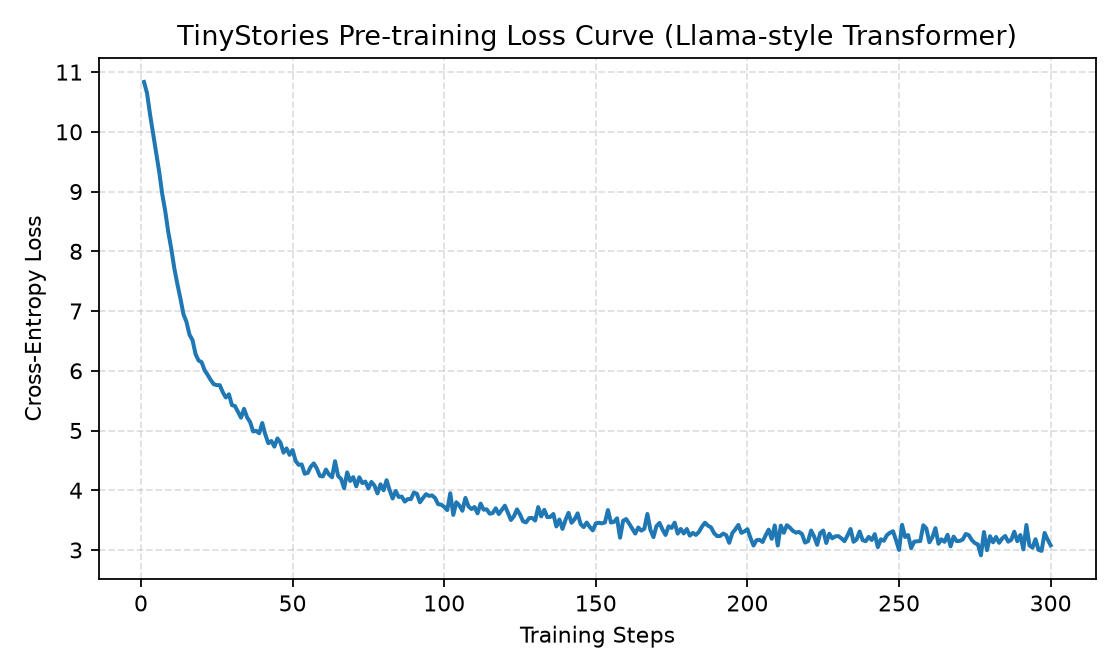
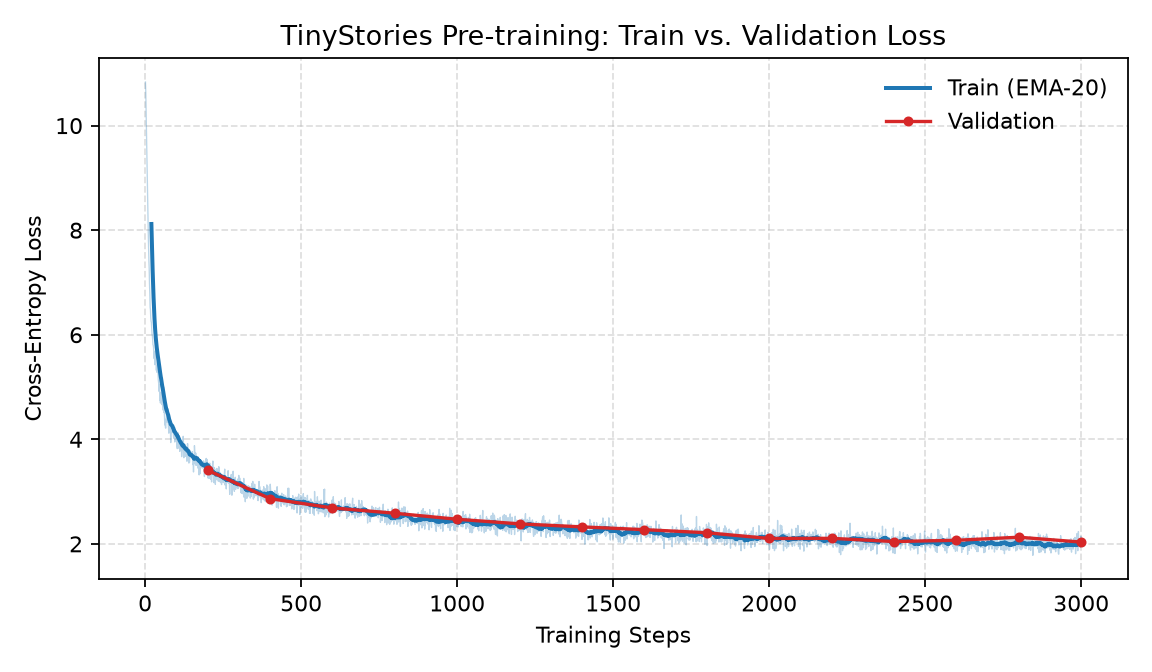
feat(training): 50MB TinyStories 子集 + 验证集 + 3000 步训练
- 新增 fetch_data.py：Gitee 镜像流式拉取 64MB，按故事边界切 50MB train / 13MB valid
- train.py：固定 seed 1337，每 200 步算验证 loss，3000 步余弦退火，双曲线图
- 结果：train 10.83 -> 1.97，val 3.41 -> 2.03，585s / 12.29M tokens (21k tok/s)
- 重跑 KV Cache 基准：L=1024 时 96.3 -> 223.4 tok/s (2.32x)

diff --git a/assignments/assignment1-basics/train.py b/assignments/assignment1-basics/train.py
@@ -9,6 +9,9 @@ import torch.nn.functional as F
 
 from cs336_basics.model import TransformerLM, get_batch
 
+TRAIN_PATH = Path("data/tinystories_train_50M.txt")
+VALID_PATH = Path("data/tinystories_valid_14M.txt")
+
 
 def encode_corpus_fast(corpus_path: Path) -> tuple[np.ndarray, int]:
     """优先使用 tiktoken 极速编码；若未安装则回退至 UTF-8 字节级编码"""
@@ -19,22 +22,26 @@ def encode_corpus_fast(corpus_path: Path) -> tuple[np.ndarray, int]:
         enc = tiktoken.get_encoding("gpt2")
         tokens = np.array(enc.encode_ordinary(text), dtype=np.int32)
         vocab_size = enc.n_vocab
-        print(f"[Tokenizer] 使用 tiktoken (GPT-2) 编码完成，总 Token 数: {len(tokens):,}")
+        print(f"[Tokenizer] {corpus_path.name}: tiktoken (GPT-2) 编码完成，Token 数: {len(tokens):,}")
     except ImportError:
         tokens = np.frombuffer(text.encode("utf-8"), dtype=np.uint8).astype(np.int32)
         vocab_size = 256
-        print(f"[Tokenizer] 使用 Byte-level 编码完成，总 Token 数: {len(tokens):,}")
+        print(f"[Tokenizer] {corpus_path.name}: Byte-level 编码完成，Token 数: {len(tokens):,}")
     return tokens, vocab_size
 
 
 def main() -> None:
     device = "cuda" if torch.cuda.is_available() else "cpu"
-    corpus_path = Path("tests/fixtures/tinystories_sample_5M.txt")
-    assert corpus_path.exists(), f"找不到内置数据集: {corpus_path}"
+    assert TRAIN_PATH.exists(), f"找不到训练集: {TRAIN_PATH}"
+    assert VALID_PATH.exists(), f"找不到验证集: {VALID_PATH}"
 
-    tokens, vocab_size = encode_corpus_fast(corpus_path)
+    torch.manual_seed(1337)
+    np.random.seed(1337)
 
-    # 轻量级模型配置（适配单张消费级显卡或笔记本，几分钟内完成收敛）
+    train_tokens, vocab_size = encode_corpus_fast(TRAIN_PATH)
+    val_tokens, _ = encode_corpus_fast(VALID_PATH)
+
+    # 轻量级模型配置（适配单张消费级显卡或笔记本）
     config = dict(
         vocab_size=vocab_size,
         context_length=1024,
@@ -48,18 +55,34 @@ def main() -> None:
     num_params = sum(p.numel() for p in model.parameters())
     print(f"[Model] 初始化完成 | 设备: {device} | 参数量: {num_params / 1e6:.2f}M")
 
-    # 按要求直接调用 PyTorch 官方优化器、余弦退火调度器与交叉熵接口
-    max_steps = 300
+    max_steps = 3000
     batch_size = 8
     grad_accum = 2
     seq_len = 256
+    val_interval = 200
+    tokens_per_step = batch_size * grad_accum * seq_len
+
     optimizer = torch.optim.AdamW(model.parameters(), lr=1e-3, weight_decay=0.01)
     scheduler = torch.optim.lr_scheduler.CosineAnnealingLR(optimizer, T_max=max_steps, eta_min=1e-4)
 
     use_amp = device == "cuda"
     amp_dtype = torch.bfloat16 if (use_amp and torch.cuda.is_bf16_supported()) else torch.float16
 
+    def evaluate(iters: int = 20) -> float:
+        model.eval()
+        total = 0.0
+        with torch.no_grad():
+            for _ in range(iters):
+                x, y = get_batch(val_tokens, batch_size=batch_size, context_length=seq_len, device=device)
+                with torch.amp.autocast(device_type=device, dtype=amp_dtype, enabled=use_amp):
+                    logits = model(x)
+                    total += F.cross_entropy(logits.view(-1, vocab_size), y.view(-1)).item()
+        model.train()
+        return total / iters
+
     losses: list[float] = []
+    val_steps: list[int] = []
+    val_losses: list[float] = []
     model.train()
     t0 = time.perf_counter()
 
@@ -67,7 +90,7 @@ def main() -> None:
         optimizer.zero_grad(set_to_none=True)
         step_loss = 0.0
         for _ in range(grad_accum):
-            x, y = get_batch(tokens, batch_size=batch_size, context_length=seq_len, device=device)
+            x, y = get_batch(train_tokens, batch_size=batch_size, context_length=seq_len, device=device)
 
             with torch.amp.autocast(device_type=device, dtype=amp_dtype, enabled=use_amp):
                 logits = model(x)  # (B, S, vocab_size)
@@ -84,20 +107,39 @@ def main() -> None:
         if step % 25 == 0 or step == 1:
             elapsed = time.perf_counter() - t0
             print(
-                f"Step {step:03d}/{max_steps} | Loss: {step_loss:.4f} "
+                f"Step {step:04d}/{max_steps} | Loss: {step_loss:.4f} "
                 f"| LR: {scheduler.get_last_lr()[0]:.2e} | Time: {elapsed:.1f}s"
             )
+
+        if step % val_interval == 0 or step == max_steps:
+            val_loss = evaluate()
+            val_steps.append(step)
+            val_losses.append(val_loss)
+            print(f"  [Val] step {step:04d} | Val Loss: {val_loss:.4f}")
+
+    elapsed = time.perf_counter() - t0
+    tokens_seen = max_steps * tokens_per_step
+    print(f"[Train] 完成 {max_steps} 步，耗时 {elapsed:.1f}s，处理 {tokens_seen:,} tokens "
+          f"({tokens_seen / elapsed:,.0f} tokens/s)")
+    print(f"[Train] Train Loss {losses[0]:.4f} -> {losses[-1]:.4f} | "
+          f"Val Loss {val_losses[0]:.4f} -> {val_losses[-1]:.4f}")
 
     # 保存权重与训练收敛曲线
     Path("checkpoints").mkdir(exist_ok=True)
     Path("assets").mkdir(exist_ok=True)
     torch.save({"config": config, "model_state_dict": model.state_dict()}, "checkpoints/model.pt")
 
-    plt.figure(figsize=(7, 4.2), dpi=160)
-    plt.plot(range(1, max_steps + 1), losses, color="#1f77b4", linewidth=1.8)
+    window = 20
+    smooth = np.convolve(losses, np.ones(window) / window, mode="valid")
+
+    plt.figure(figsize=(7.2, 4.2), dpi=160)
+    plt.plot(range(1, max_steps + 1), losses, color="#1f77b4", linewidth=0.6, alpha=0.3)
+    plt.plot(range(window, max_steps + 1), smooth, color="#1f77b4", linewidth=1.8, label="Train (EMA-20)")
+    plt.plot(val_steps, val_losses, "o-", color="#d62728", linewidth=1.5, markersize=3.5, label="Validation")
     plt.xlabel("Training Steps")
     plt.ylabel("Cross-Entropy Loss")
-    plt.title("TinyStories Pre-training Loss Curve (Llama-style Transformer)")
+    plt.title("TinyStories Pre-training: Train vs. Validation Loss")
+    plt.legend(frameon=False)
     plt.grid(True, linestyle="--", alpha=0.4)
     plt.tight_layout()
     plt.savefig("assets/training_loss.png")

diff --git a/assignments/assignment1-basics/fetch_data.py b/assignments/assignment1-basics/fetch_data.py
@@ -1,0 +1,65 @@
+"""流式拉取 TinyStoriesV2-GPT4-train.txt 的前 64MB 并按故事边界切分。
+
+官方数据 2.23GB，HuggingFace 在本机不可达，改用 Gitee 镜像；
+该镜像不支持 Range 请求，因此只读取前 64MB 后断开连接，避免下载全量。
+"""
+
+from __future__ import annotations
+
+import time
+import urllib.request
+from pathlib import Path
+
+URL = "https://gitee.com/hf-datasets/TinyStories/raw/main/TinyStoriesV2-GPT4-train.txt"
+RAW = Path("/tmp/ts_64m.bin")
+MAX_BYTES = 64 * 1024 * 1024
+TRAIN_BYTES = 50 * 1024 * 1024
+SEP = "<|endoftext|>"
+DATA_DIR = Path(__file__).parent / "data"
+
+
+def download() -> None:
+    if RAW.exists() and RAW.stat().st_size >= MAX_BYTES:
+        print(f"[Download] 复用 {RAW}")
+        return
+    req = urllib.request.Request(URL, headers={"User-Agent": "Mozilla/5.0"})
+    resp = urllib.request.urlopen(req)
+    t0 = time.perf_counter()
+    got = mark = 0
+    with RAW.open("wb") as f:
+        while got < MAX_BYTES:
+            chunk = resp.read(1 << 20)
+            if not chunk:
+                break
+            f.write(chunk)
+            got += len(chunk)
+            if got - mark >= 8 << 20:
+                print(f"[Download] {got / 2**20:5.0f} MB  {time.perf_counter() - t0:5.1f}s")
+                mark = got
+    resp.close()
+    print(f"[Download] 完成 {got / 2**20:.1f} MB，用时 {time.perf_counter() - t0:.1f}s")
+
+
+def split() -> None:
+    raw = RAW.read_bytes()
+    stories = [s.decode("utf-8", errors="ignore").strip() for s in raw.split(SEP.encode())]
+    stories = [s for s in stories[:-1] if s]  # 丢弃末尾可能被截断的故事
+
+    train, valid, acc = [], [], 0
+    for story in stories:
+        if acc < TRAIN_BYTES:
+            train.append(story)
+            acc += len(story) + 1
+        else:
+            valid.append(story)
+
+    DATA_DIR.mkdir(exist_ok=True)
+    for name, parts in [("tinystories_train_50M.txt", train), ("tinystories_valid_14M.txt", valid)]:
+        path = DATA_DIR / name
+        path.write_text("\n".join(parts), encoding="utf-8")
+        print(f"[Split] {name}: {path.stat().st_size / 2**20:.1f} MB, {len(parts):,} 条故事")
+
+
+if __name__ == "__main__":
+    download()
+    split()

diff --git a/RUN_RESULTS.md b/RUN_RESULTS.md
@@ -1,52 +1,59 @@
 # 训练与 KV Cache 基准结果（2026-10-28 更新）
 
-## 1. 训练（batch 8 + 梯度累积 2，等效 batch 16）
+## 1. 训练（50 MB TinyStories 子集，3000 步）
 
 | 项目 | 结果 |
 |---|---|
 | 命令 | `uv run python train.py` |
-| 语料 | `tests/fixtures/tinystories_sample_5M.txt`（tiktoken GPT-2，1,328,129 tokens） |
+| 训练集 | `data/tinystories_train_50M.txt`（50.0 MB，65,077 条故事，**12,978,790 tokens**） |
+| 验证集 | `data/tinystories_valid_14M.txt`（12.9 MB，16,619 条故事，3,335,614 tokens） |
+| 数据来源 | Gitee 镜像 `hf-datasets/TinyStories` 流式读取 64 MB 后切分（见 `fetch_data.py`） |
 | 模型 | 30.85M 参数，6 层 / d_model 256 / 8 头 / d_ff 768 / ctx 1024 |
-| 步数 | 300（等效 batch 16 × seq 256 ≈ 123 万 token，约 1 轮） |
-| 耗时 | 57.9 s（RTX 3050 Ti 4GB，bf16 autocast） |
-| Loss | **10.8349 → 3.0784** |
-| 产物 | `checkpoints/model.pt`（118MB）、`assets/training_loss.png`（1120×672） |
+| 配置 | batch 8 × 梯度累积 2 = 16，seq 256，3000 步，AdamW lr 1e-3，余弦退火，seed 1337 |
+| 训练量 | **12,288,000 tokens**（约 0.95 轮语料） |
+| 耗时 | **585.1 s**（≈ 21,001 tokens/s，RTX 3050 Ti 4GB，bf16 autocast） |
+| 训练 Loss | **10.8345 → 1.9654** |
+| 验证 Loss | **3.4093 → 2.0341**（每 200 步在 20 个 batch 上评测） |
+| 产物 | `checkpoints/model.pt`（118 MB）、`assets/training_loss.png`（train EMA + val 双曲线） |
 
-Loss 采样：step1 10.83 → step25 5.76 → step50 4.67 → step100 3.72 → step200 3.15 → step300 3.08。
+验证 Loss 采样：step200 3.4093 → 600 2.6871 → 1000 2.4706 → 1400 2.3245 →
+2000 2.1031 → 2400 2.0442 → 3000 2.0341。验证曲线始终在训练曲线上方约 0.06–0.10，
+无明显过拟合。
 
-## 2. KV Cache 基准（含真实峰值显存）
+## 2. KV Cache 基准（同一 checkpoint）
 
-一致性校验：`use_cache=False` 与 `use_cache=True` 的 64-token 贪心解码序列**完全一致（PASS）**。
+一致性校验：`use_cache=False` 与 `use_cache=True` 的 64-token 贪心解码序列
+**逐 token 完全一致（PASS）**。基线（权重 + prompt）：67.8 MB。
 
 | 生成长度 L | 无缓存 (ms) | KV Cache (ms) | 无缓存吞吐 (tok/s) | Cache 吞吐 (tok/s) | 加速比 | 张量口径 / 理论 (MB) | 分配器峰值增量 (MB) |
 |---:|---:|---:|---:|---:|---:|---:|---:|
-| 64 | 291.2 | 252.4 | 219.8 | 253.6 | 1.15x | 0.46 / 0.47 | 1.73 |
-| 128 | 588.6 | 515.2 | 217.5 | 248.4 | 1.14x | 0.84 / 0.84 | 1.73 |
-| 256 | 1168.1 | 1036.3 | 219.2 | 247.0 | 1.13x | 1.59 / 1.59 | 1.95 |
-| 512 | 2637.0 | 2048.6 | 194.2 | 249.9 | 1.29x | 3.09 / 3.09 | 3.71 |
-| 1024 | 10570.1 | 4493.1 | 96.9 | 227.9 | **2.35x** | 6.09 / 6.09 | 7.21 |
+| 64 | 302.1 | 258.7 | 211.8 | 247.4 | 1.17x | 0.46 / 0.47 | 1.73 |
+| 128 | 599.1 | 520.9 | 213.6 | 245.7 | 1.15x | 0.84 / 0.84 | 1.73 |
+| 256 | 1176.5 | 1034.6 | 217.6 | 247.4 | 1.14x | 1.59 / 1.59 | 1.95 |
+| 512 | 2623.1 | 2065.9 | 195.2 | 247.8 | 1.27x | 3.09 / 3.09 | 3.71 |
+| 1024 | 10638.5 | 4583.0 | 96.3 | 223.4 | **2.32x** | 6.09 / 6.09 | 7.21 |
 
 ### 测量口径
 
 - **张量口径**：`KVCache.memory_bytes()`，按 `numel × element_size` 累加，与理论公式
   `2 × layers × B × heads × d_head × T × bytes` 同源。
 - **分配器峰值增量**：每个 L 测前 `torch.cuda.empty_cache()` + `reset_peak_memory_stats()`，
-  测后读 `max_memory_allocated()` 并减去基线（权重 + prompt = 67.8 MB）。
-  这是设备上真实发生的同时占用峰值，不是把显存跑满。
+  测后读 `max_memory_allocated()` 并减去 67.8 MB 基线。这是设备上真实发生的同时占用峰值，
+  不是把显存跑满。
 - **峰值增量 ≈ 张量 × (1 + 1/num_layers)**：`torch.cat` 扩容的瞬间，只有**当前层**同时持有
   新旧两块，其余 5 层已换成新块。实测 7.21 / 6.09 = **1.18×**，与 1 + 1/6 ≈ 1.17 吻合，
-  而不是“整体翻倍”。
+  并非整体翻倍。
 - `max_memory_reserved()` 受分配器段粒度影响，多数长度下未触发新段（增量为 0），
-  因此不纳入表格；它衡量的是缓存池，不是 KV 本身。
+  不纳入表格。
 
-产物：`assets/kv_cache_benchmark.png`（双子图：左=延迟，右=理论 / 张量 / 分配器峰值三条曲线）。
+产物：`assets/kv_cache_benchmark.png`（左=延迟对数图，右=理论 / 张量 / 分配器峰值三条曲线）。
 
 ## 3. 结果解读
 
-- 加速比在 L=1024 才明显（2.35x），短序列只有 1.13–1.29x。原因：`KVCache.update` 每步用
+- 加速比在 L=1024 才明显（2.32x），短序列只有 1.14–1.17x。原因：`KVCache.update` 每步用
   `torch.cat` 复制整段历史（单步 O(T) 拷贝、全程 O(T²)），加上模型很小、kernel 启动开销占比高。
   改为预分配缓冲区（`torch.empty(max_len)` + 切片写入）可进一步拉开差距。
-- KV 显存随长度线性增长，1024 时 6.09 MB，与理论公式逐点一致；即便算上 cat 的瞬时峰值也只有
+- KV 显存随长度线性增长，1024 时 6.09 MB，与理论公式逐点一致；算上 cat 的瞬时峰值也只有
   7.21 MB，远不是显存压力来源。
 - 真正占显存的是权重（30.85M × 2 bytes ≈ 61.7 MB）与训练时的 logits（B×S×50257）。
 
@@ -54,7 +61,8 @@ Loss 采样：step1 10.83 → step25 5.76 → step50 4.67 → step100 3.72 → s
 
 ```bash
 cd /home/luy/Coding/cs336-2026/assignments/assignment1-basics
-uv run python train.py
+uv run python fetch_data.py     # 拉取 64MB 并切分 train/valid
+uv run python train.py          # 3000 步，约 10 分钟
 uv run python profile_kvcache.py
 ```
 
